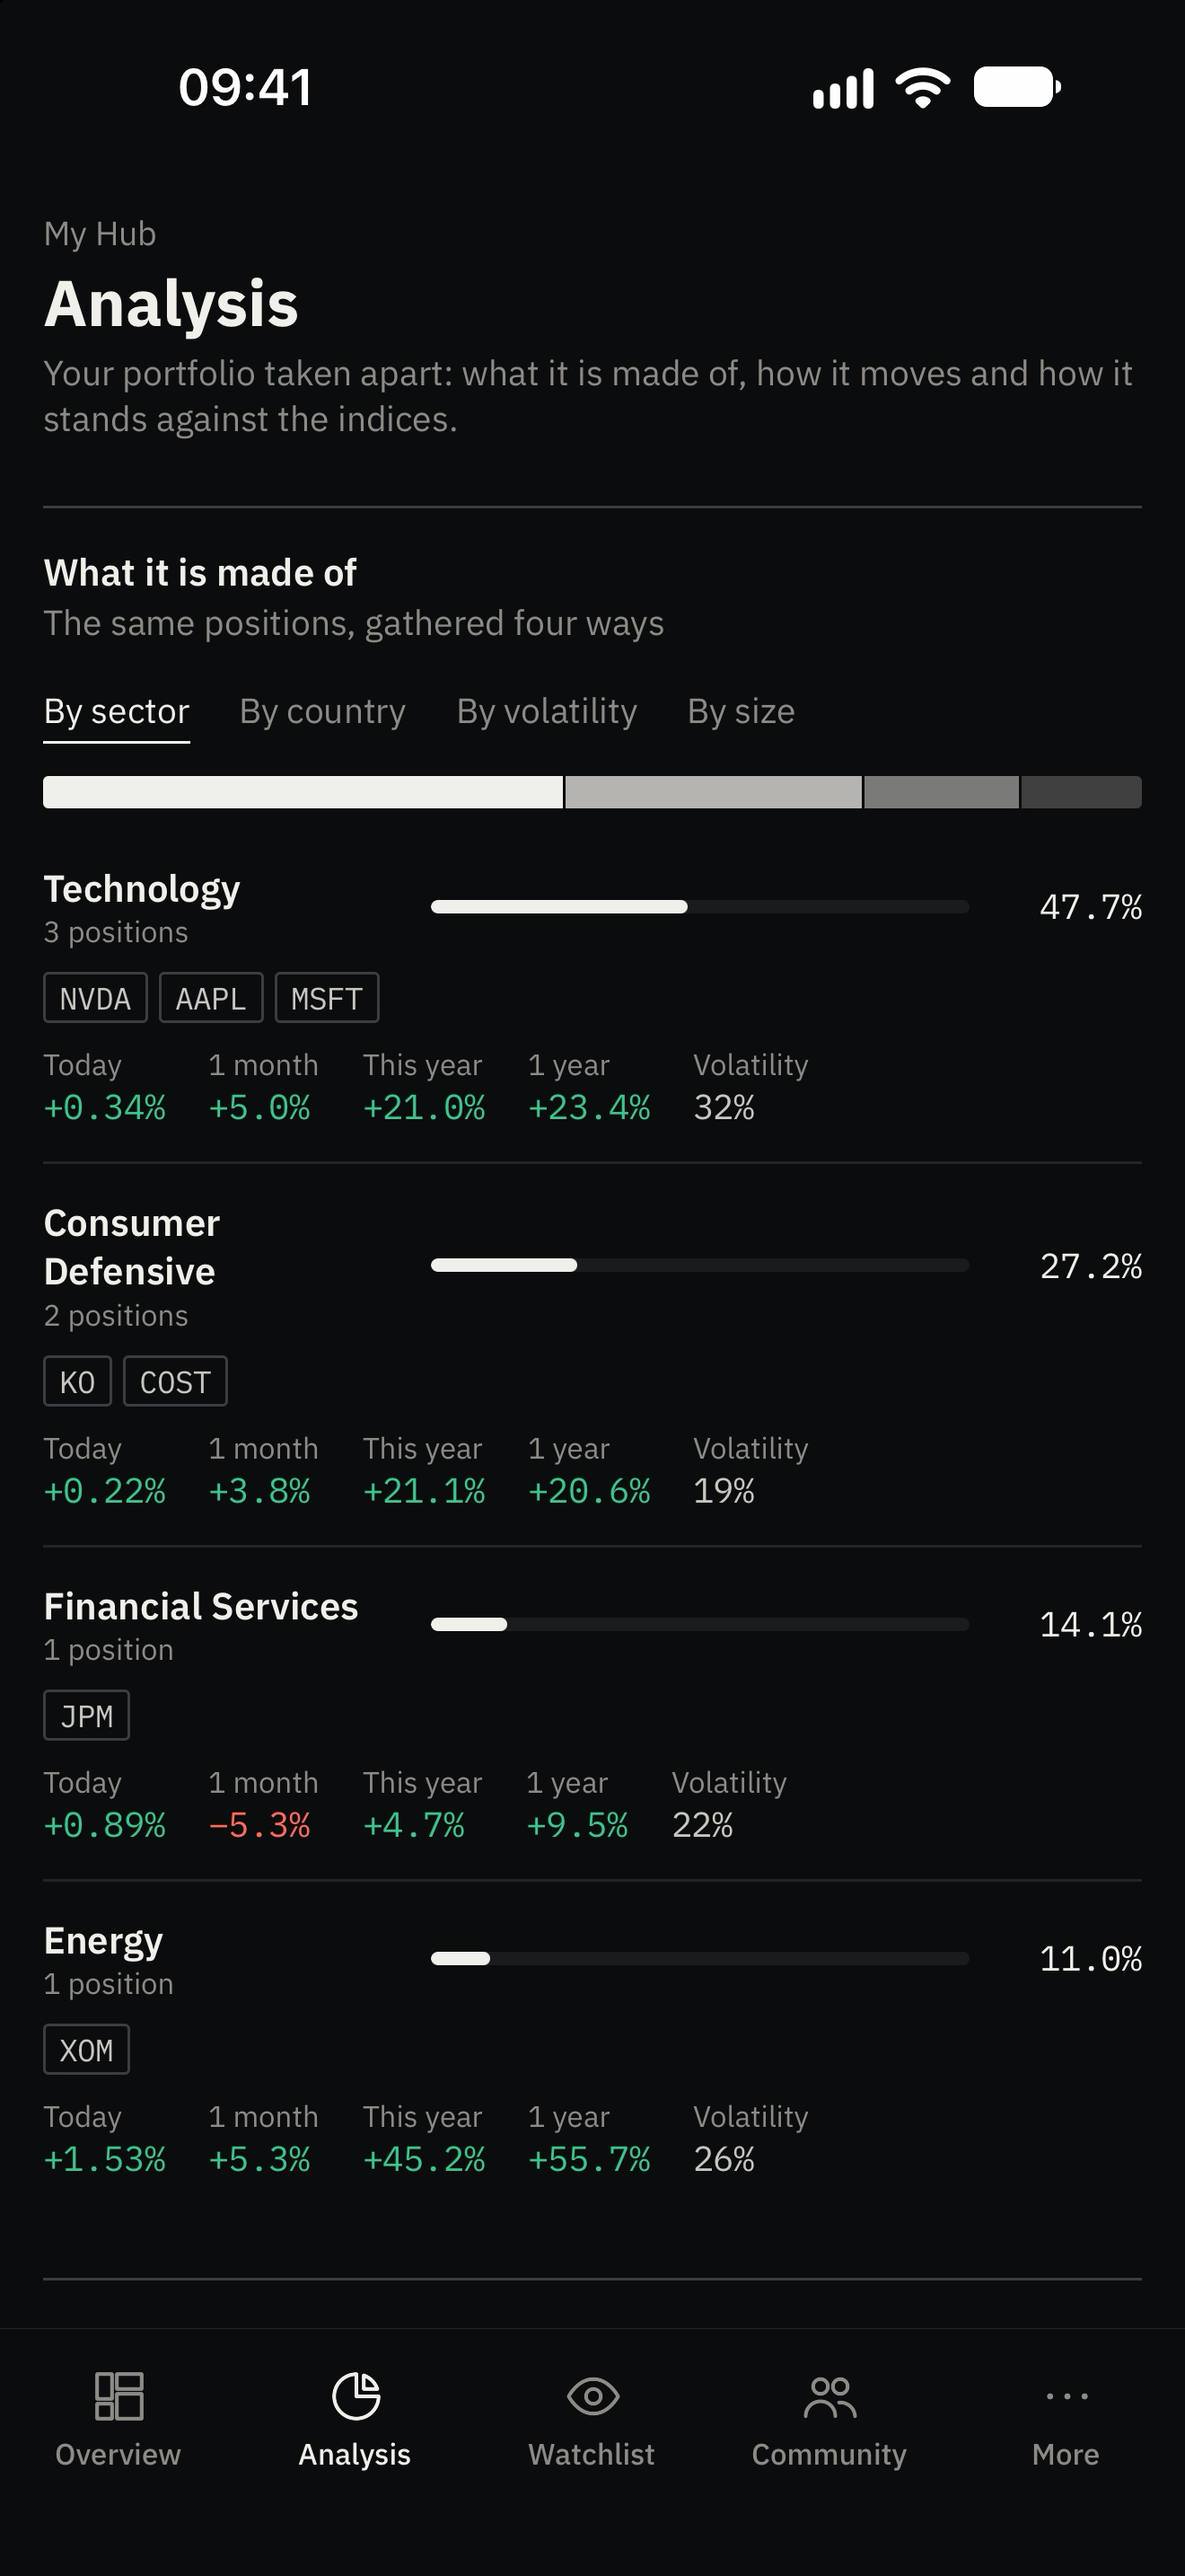
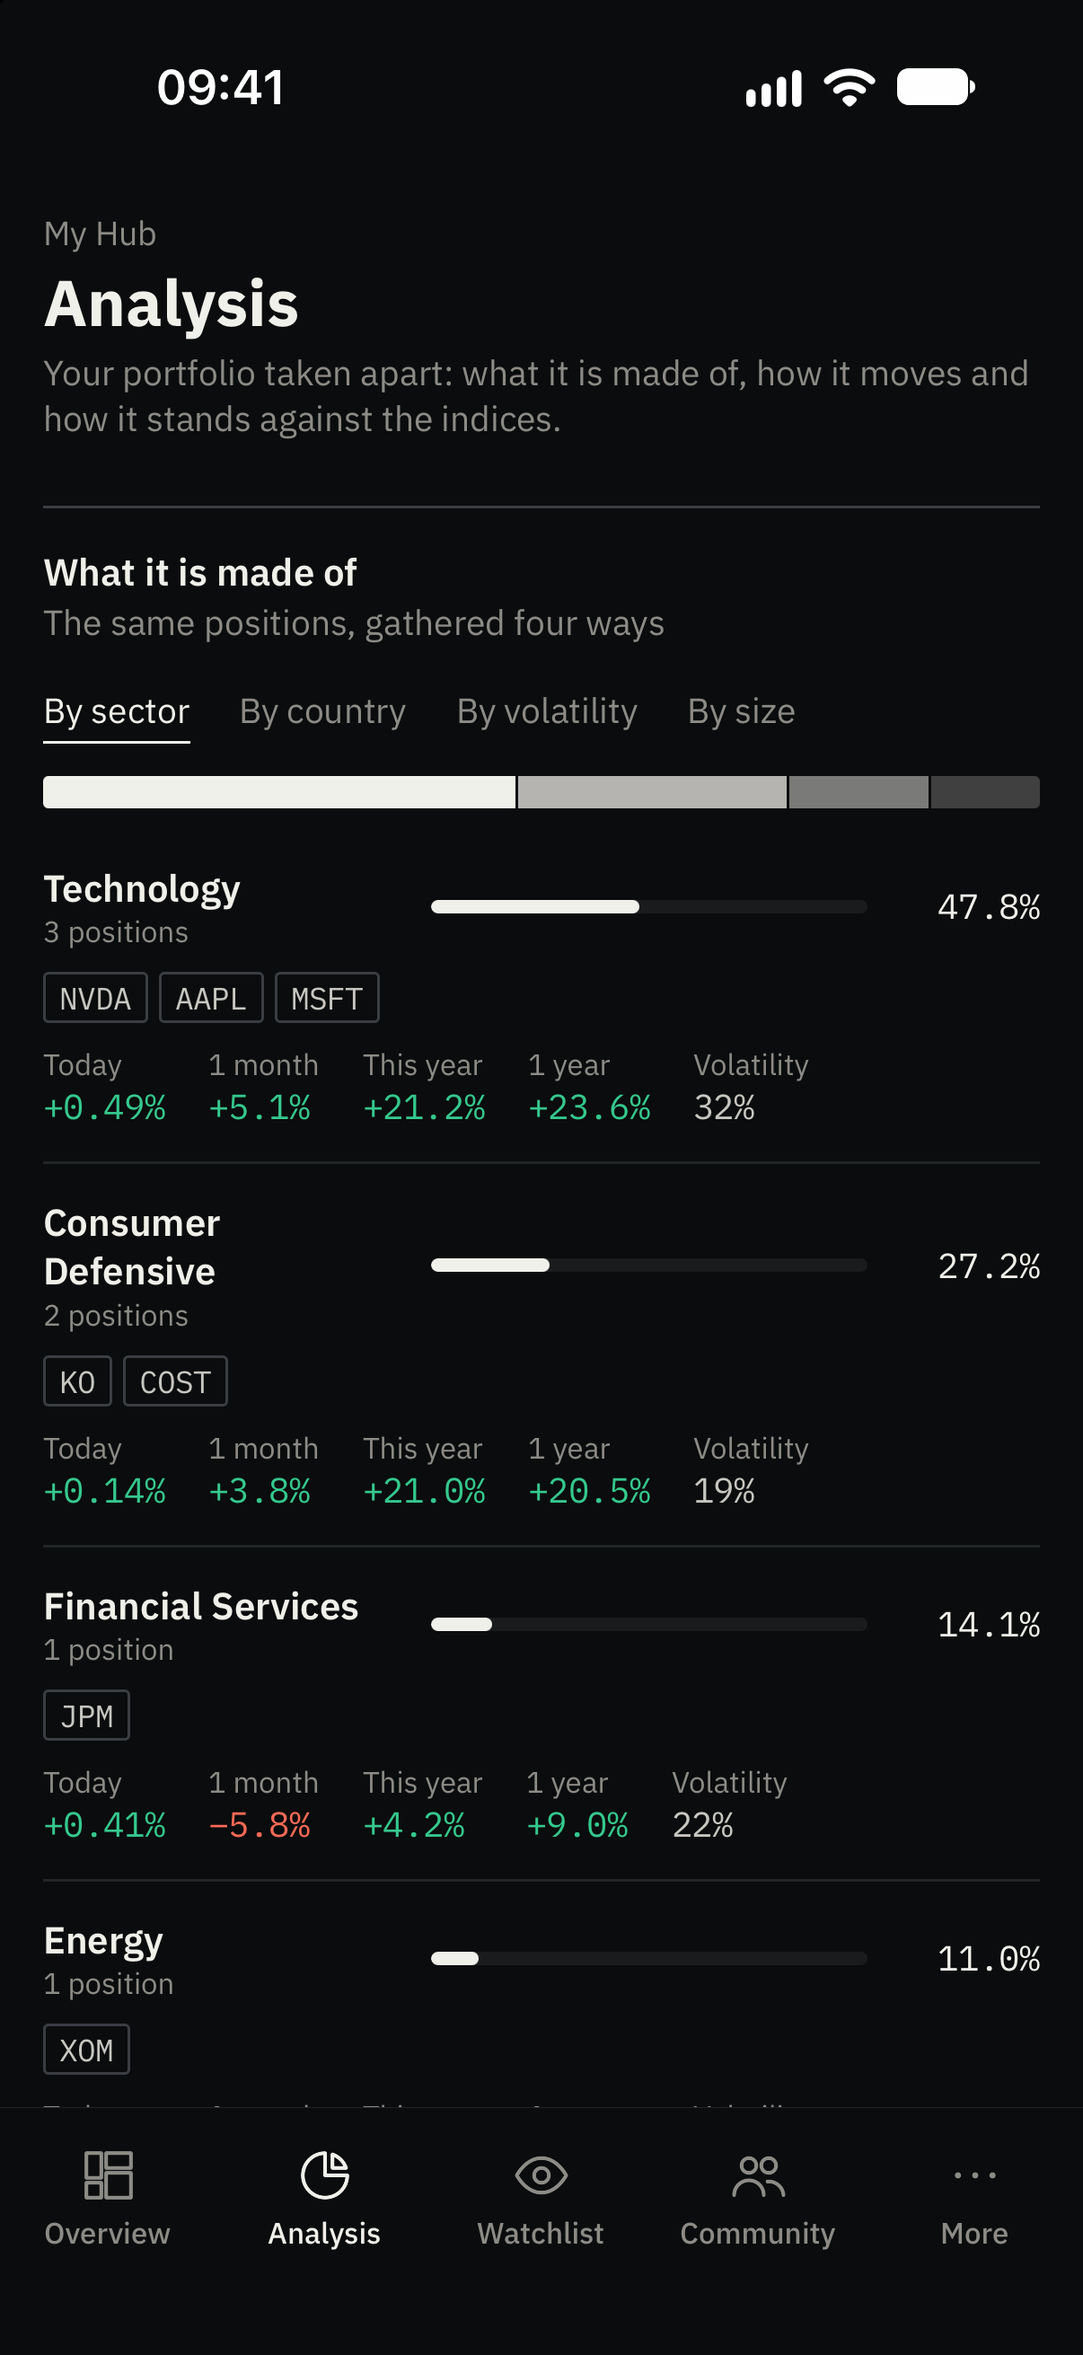
The screenshots at the size App Store Connect takes; the sign-in screen no longer scrolls under the clock

diff --git a/src/app/sign-in.tsx b/src/app/sign-in.tsx
@@ -107,8 +107,9 @@ export default function SignIn() {
   }
 
   return (
-    <View style={styles.fill}>
-      <ScrollView ref={scroll} contentContainerStyle={[styles.page, { paddingTop: insets.top + space.xxl, paddingBottom: insets.bottom + space.xl }]}
+    // The inset is the frame's, not the content's: what scrolls goes out of sight at the status bar, not under it.
+    <View style={[styles.fill, { paddingTop: insets.top }]}>
+      <ScrollView ref={scroll} contentContainerStyle={[styles.page, { paddingTop: space.xxl, paddingBottom: insets.bottom + space.xl }]}
         keyboardShouldPersistTaps="handled" keyboardDismissMode="on-drag" automaticallyAdjustKeyboardInsets onScroll={onScroll} scrollEventThrottle={16}>
         <Revealing value={reveal}>
         <View style={styles.brand}>

diff --git a/store/app-store/LISTING.md b/store/app-store/LISTING.md
@@ -170,7 +170,7 @@ Market Hub cubre empresas cotizadas en Estados Unidos. La app está en inglés. 
 | Qué | Archivo o valor | Estado |
 |---|---|---|
 | Icono | El de la app (`assets/images/icon.png`, 1024 × 1024, sin transparencia): va dentro de la compilación | Hecho (`make icons`) |
-| Capturas de iPhone: de 1 a 10, PNG o JPEG sin transparencia | `store/app-store/screenshots/`: cinco PNG de 1320 × 2868 sin transparencia, del simulador **iPhone 18 Pro Max** (la pantalla grande, 6,9 pulgadas), que App Store Connect reduce para las demás: Overview, Analysis, Watchlist, la ficha de una acción y el mapa de Watchlist. Con precios de verdad (Yahoo, del 2026-10-13) y una cartera inventada, de una cuenta local ("Alex"); la hora, 9:41. Community no va: en local solo hay un par de carteras | Hecho (2026-10-13) |
+| Capturas de iPhone: de 1 a 10, PNG o JPEG sin transparencia | `store/app-store/screenshots/`: cinco PNG de **1206 × 2622** sin transparencia, del simulador **iPhone 18 Pro**. Es el tamaño del recuadro que App Store Connect enseña y exige, "iPhone with Dynamic Island (medium display)", que solo toma 1179 × 2556 o 1206 × 2622: las primeras se sacaron a 1320 × 2868 (Pro Max) y las rechazó por "File dimensions are invalid". Van en ese recuadro, no en "Header and Search Results", que es otro, opcional y de otro tamaño. Son: Overview, Analysis, Watchlist, la ficha de una acción y el mapa de Watchlist. Con precios de verdad (Yahoo, del 2026-10-13) y una cartera inventada, de una cuenta local ("Alex"); la hora, 9:41. Community no va: en local solo hay un par de carteras | Hecho (2026-10-13) |
 | Categoría | Finance | |
 | Copyright | `2026 <el nombre del titular de la cuenta>` | **Pendiente** |
 | Support URL | `https://themarkethub.app/contact/` | Hecho (2026-10-13) |

diff --git a/docs/HANDOFF.md b/docs/HANDOFF.md
@@ -147,12 +147,16 @@ https://themarkethub.app), publicada en las dos tiendas. Decisiones del usuario 
   la cuenta de Apple). La build 1 no los lleva.
 - **Capturas para el App Store** (2026-10-13): `store/app-store/screenshots/`, cinco. Cómo se
   repiten: `make sim` (la app de verdad, que habla con el portal de este equipo), instalada en
-  el simulador iPhone 18 Pro Max; el portal en local con precios de Yahoo y sin claves de pago
+  el simulador **iPhone 18 Pro** (1206 × 2622, el tamaño que pide el recuadro de App Store
+  Connect; las del Pro Max, 1320 × 2868, las rechaza); el portal en local con precios de Yahoo y sin claves de pago
   (`mobile-api-live` de `.claude/launch.json` del workspace); una cuenta local con una cartera
   variada; `xcrun simctl status_bar … override --time 9:41` y `xcrun simctl io … screenshot`.
   `simctl` las da con canal alfa y Apple no lo admite: se quitó con `sips`.
   Visto de paso: en el mapa de Watchlist, con muchas acciones, las etiquetas se pisan (COST y
   AAPL, LLY y AMZN); la captura va con solo las cuatro de la watchlist. Sin arreglar.
+  Y en la pantalla de entrada, con el teclado abierto en un iPhone de este tamaño, la marca
+  subía hasta pisar la hora: arreglado (el hueco de la barra de estado es del marco), para la
+  compilación siguiente a la build 3.
 - **Sin probar en el simulador** (2026-10-13; el teclado ya sí, arriba): **el teclado en pantalla** (el simulador escribe
   con el teclado del Mac y no lo saca: falta ver que no tape el campo ni los resultados de una
   búsqueda al pie de la pantalla, como la de Watchlist), el captcha y el login con Google (van
